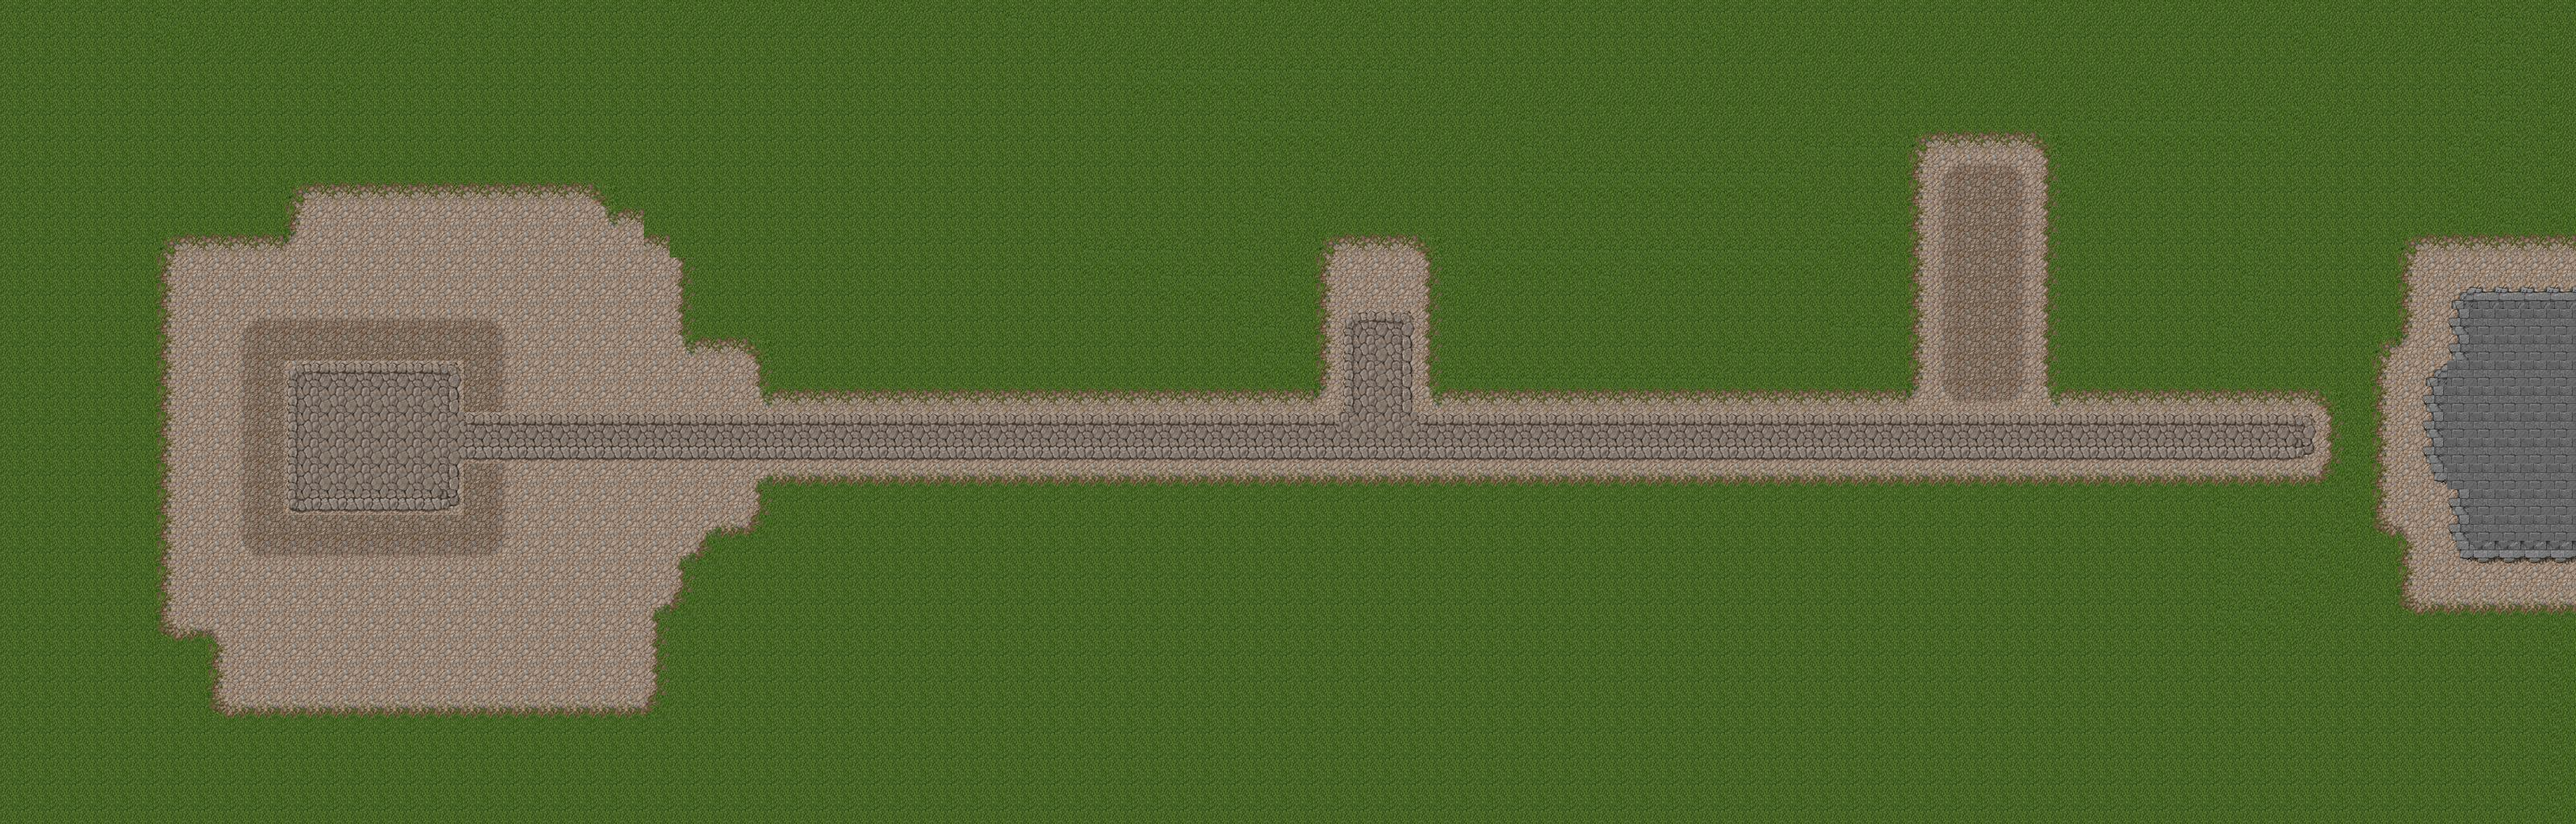
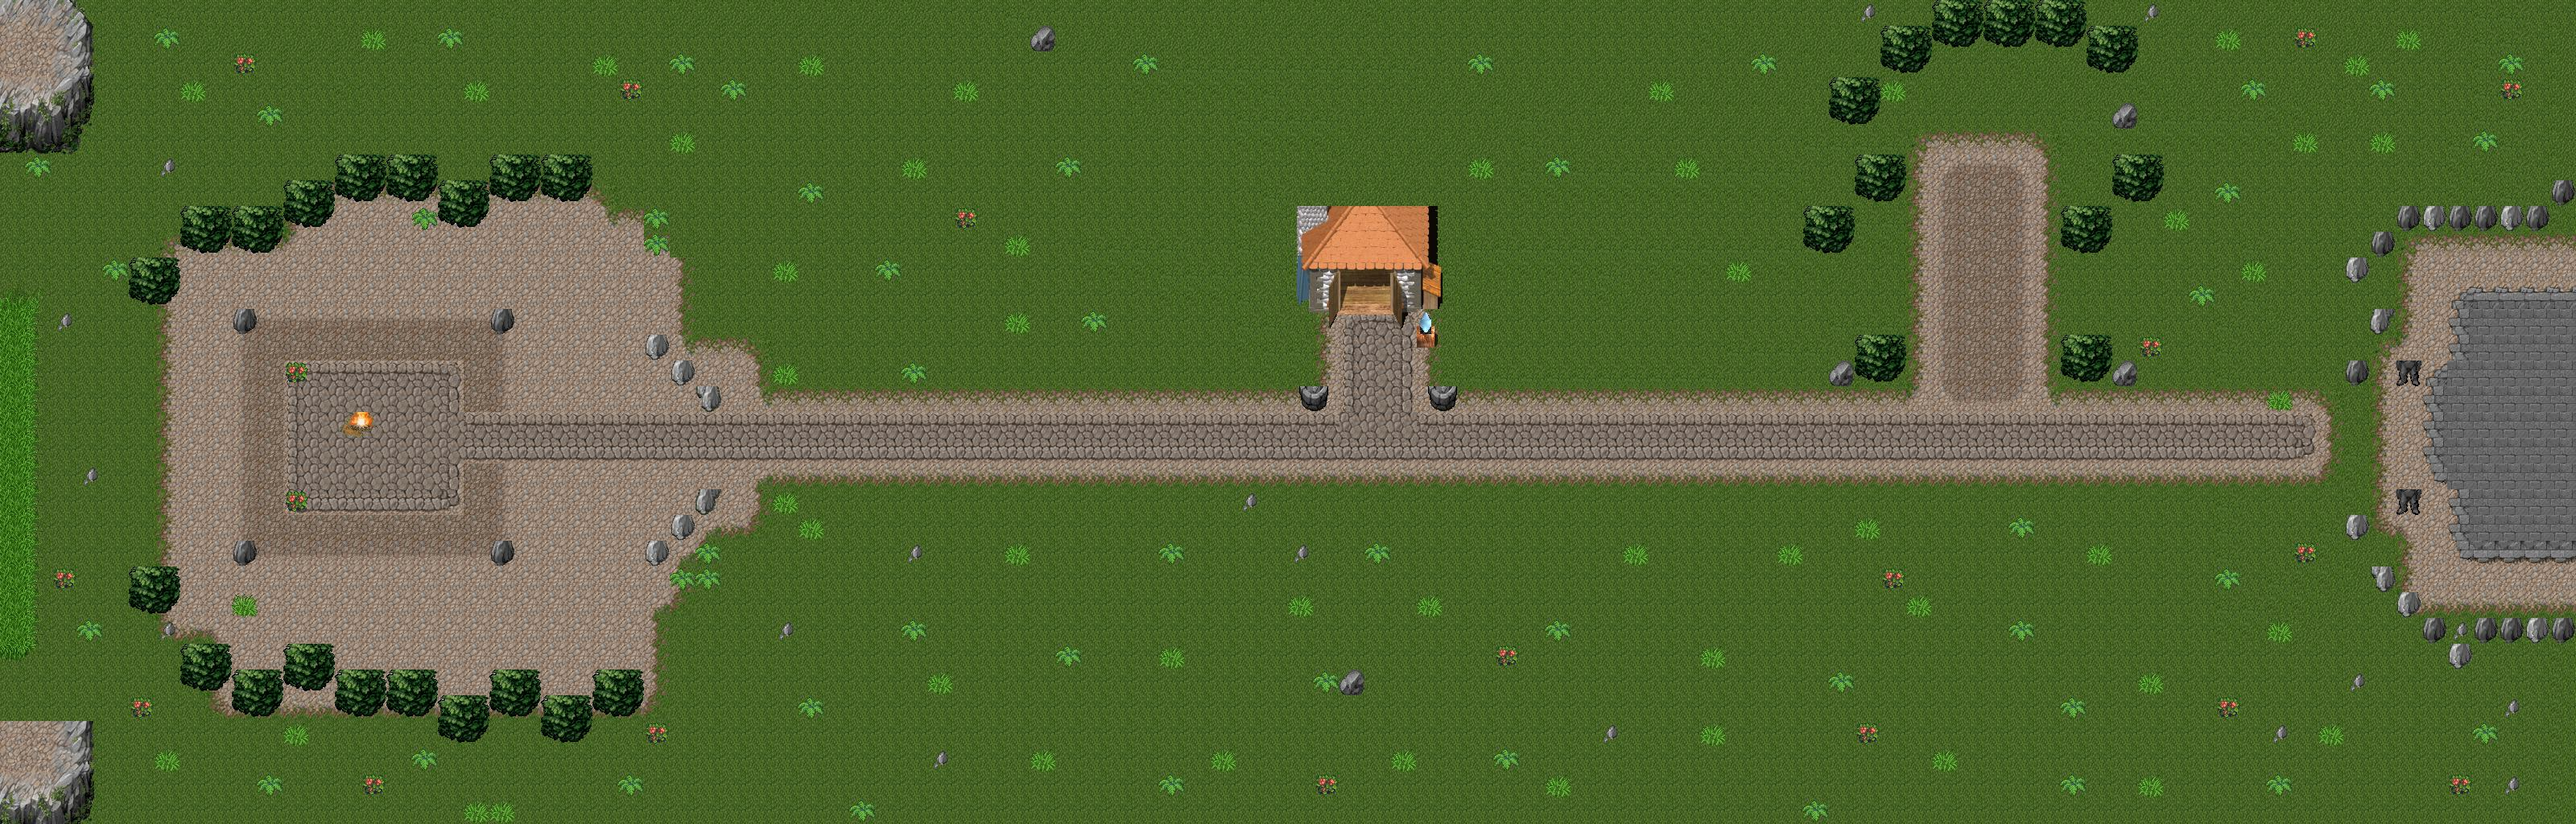
Podmiana starej mapy jpg na nową, oraz dodanie też w wersji .tmx lecz bez implementacji.

diff --git a/core/src/com/mygdx/screens/TutorialScreen.java b/core/src/com/mygdx/screens/TutorialScreen.java
@@ -24,7 +24,7 @@ public class TutorialScreen extends AbstractScreen {
 	public Actors map; // mapa danej planszy
 	public Actors map2;
 	public AbstractButton CantStand[]; // tablica w ktorej sa obiekty do kolizji
-	public Actors npchouse; // dodajemy domek NPCta - test
+	
 	public Parserv3 Parser1;
 	public StartowyNPC npc1;
 	public Enemy enemy1;
@@ -50,17 +50,15 @@ public class TutorialScreen extends AbstractScreen {
 		statslayout = new Actors(0, 668, "Layout\\statslayout.png");
 		map = new Actors(0, 0, "Maps\\tutorial\\1.jpg");
 		map2 = new Actors(0, 0, "Maps\\tutorial\\2.png");
-		npchouse = new Actors(1600, 680, "NPCMovement\\NPCHouse0001.png");
 		console = new Console(600, 270, 25, 1);
-		mainCharacter = new MainCharacter(400, 450, "CharacterMovement\\walking e0000.png", stage);
+		mainCharacter = new MainCharacter(432, 450, "CharacterMovement\\walking e0000.png", stage);
 
-		npc1 = new StartowyNPC("NPC", 1650, 650, "NPCMovement\\stopped0000.png", this.stage, this.console, this.Parser1,
-				1600, 600, 200, 140);
+		npc1 = new StartowyNPC("NPC", 1650, 560, "NPCMovement\\stopped0000.png", this.stage, this.console, this.Parser1,
+				1600, 500, 200, 140);
 		enemy1 = new Enemy("NPC", 1650,350,"NPCMovement\\stopped0000.png",this.stage,this.console,this.Parser1,1600,300, 200, 140);
 		
 		stage.addActor(map.image);
 		stage.addActor(map2.image);
-		stage.addActor(npchouse.image);
 		stage.addActor(npc1.image);
 		stage.addActor(enemy1.image);
 		stage.addActor(mainCharacter.image);

diff --git a/core/src/com/mygdx/ingameConsole/Console.java b/core/src/com/mygdx/ingameConsole/Console.java
@@ -9,8 +9,7 @@ import com.badlogic.gdx.scenes.scene2d.InputListener;
 import com.mygdx.ingameConsole.Console;
 import com.badlogic.gdx.scenes.scene2d.ui.TextField;
 import com.badlogic.gdx.scenes.scene2d.ui.TextField.TextFieldStyle;
-import com.badlogic.gdx.graphics.g2d.freetype.FreeTypeFontGenerator;
-import com.badlogic.gdx.graphics.g2d.freetype.FreeTypeFontGenerator.FreeTypeFontParameter;
+
 
 
 
@@ -48,8 +47,6 @@ public class Console {
 	private int countIN = 0;   //licznik do tablicy aby wyswietlalo ostatnie wpisane stringi
 	private int countOUT = 0;  // to samo co up
 	
-	private FreeTypeFontGenerator generator;
-	private FreeTypeFontParameter parameter;
 	
 	
 	public Console( int WIDTH , float X , float Y, int size) {

diff --git a/core/src/com/mygdx/game/actors/MainCharacter.java b/core/src/com/mygdx/game/actors/MainCharacter.java
@@ -2,7 +2,6 @@ package com.mygdx.game.actors;
 
 import com.badlogic.gdx.Gdx;
 import com.badlogic.gdx.graphics.Texture;
-import com.badlogic.gdx.graphics.g2d.BitmapFont;
 import com.badlogic.gdx.math.Rectangle;
 import com.badlogic.gdx.scenes.scene2d.Stage;
 import com.badlogic.gdx.utils.Timer;
